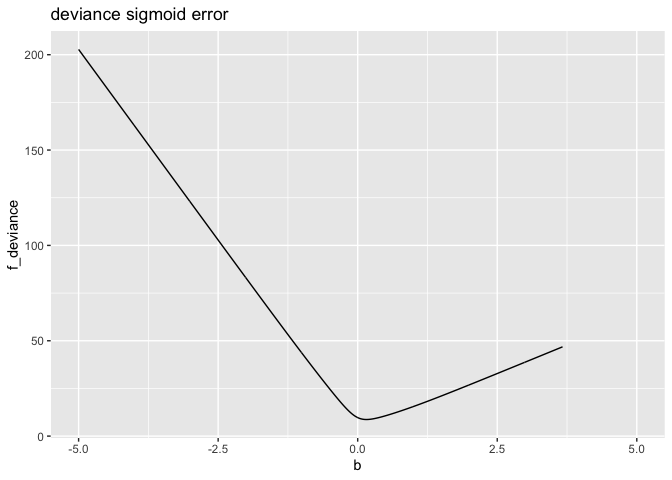
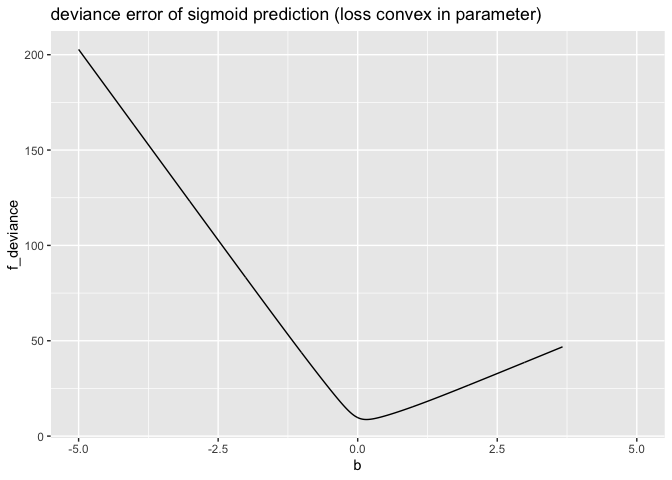
edit

Changed region(s): [[0.1875, 0.0, 0.8125, 0.0625]]

diff --git a/WhyNotSquareError/Square_Error_Example.md b/WhyNotSquareError/Square_Error_Example.md
@@ -1,5 +1,14 @@
 Square Error Example
 ================
+John Mount, Win-Vector LLC
+
+This is an example of the non-convex structure of the squared error of
+sigmoid predictions (that is loss with respect to model parameters). The
+non-convexity was discussed in [“Why not Square Error for
+Classification?”](https://github.com/WinVector/Examples/blob/main/WhyNotSquareError/why_deviance.ipynb)
+(that example is in `Python`, this one is in `R`), and this is an
+example where finding optimal parameter values could be made harder by
+the non-convexity.
 
 ``` r
 library(ggplot2)
@@ -10,28 +19,51 @@ sigmoid <- function(x) {
   1/(1 + exp(-x))
 }
 
-
-d <- data.frame(
-  x = c(-2, -2, -2, 0, 0, 10, 10),
-  y = c(1, 1, 1, 0, 1, 1, 1)
-)
-
-
+# square-loss, a good loss for general numeric regressions
+# not recommended for probability/classification problems
 f_sq <- function(b, d) {
   sum( (d$y - sigmoid(b * d$x))^2 )
 }
 
+# deviance loss. monotone-equivalent to cross entropy
+# good loss for probability/classification problems
 f_deviance <- function(b, d) {
   -2 * sum( d$y * log(sigmoid(b * d$x)) + 
             (1-d$y) * log(1 - sigmoid(b * d$x)) )
 }
 ```
 
+Set up some example data. `x` is the explanatory variable, `y` is the
+categorical (`0`/`1` in this case) dependent variable to be predicted.
+
 ``` r
-plt_frame = data.frame(
-  b = seq(-5, 5, by = 0.01)
+d <- data.frame(
+  x = c(-2, -2, -2, 0, 0, 10, 10),
+  y = c(1, 1, 1, 0, 1, 1, 1)
 )
 
+knitr::kable(d)
+```
+
+|   x | y |
+| --: | -: |
+| \-2 | 1 |
+| \-2 | 1 |
+| \-2 | 1 |
+|   0 | 0 |
+|   0 | 1 |
+|  10 | 1 |
+|  10 | 1 |
+
+Plot model loss as a function of the model parameter `b`. Typical a `b`
+with minimal loss on the training data is selected as a best model.
+
+``` r
+plt_frame = data.frame(
+  b = seq(-2, 2, by = 0.01)
+)
+
+# vapply is R's equivalent of Python's list comprehension
 plt_frame$f_sq <- vapply(
   plt_frame$b,
   function(b) { f_sq(b, d) },
@@ -45,20 +77,47 @@ plt_frame$f_deviance <- vapply(
 )
 ```
 
-``` r
-ggplot(data = plt_frame, aes(x = b, y = f_sq)) + 
-  geom_line() +
-  ggtitle("squared sigmoid error")
-```
-
-![](Square_Error_Example_files/figure-gfm/unnamed-chunk-4-1.png)<!-- -->
+Deviance error of the sigmoid prediction *is* convex. This tends to make
+optimization easier.
 
 ``` r
 ggplot(data = plt_frame, aes(x = b, y = f_deviance)) + 
   geom_line() +
-  ggtitle("deviance sigmoid error")
+  ggtitle("deviance error of sigmoid prediction (loss convex in parameter)")
 ```
 
-    ## Warning: Removed 133 row(s) containing missing values (geom_path).
+![](Square_Error_Example_files/figure-gfm/unnamed-chunk-5-1.png)<!-- -->
 
-![](Square_Error_Example_files/figure-gfm/unnamed-chunk-4-2.png)<!-- -->
+The deviance loss is the basis of logistic regression, and also monotone
+equivalent to cross-entropy. It can be thought of as the average number
+of bits of surprise or correction needed using the predicted
+probabilities to encode data with the actual `y`-outcome probabilities
+being the true distribution. At deviance zero there is no surprise, and
+at large deviance the predictions are not doing well.
+
+Squared error of the sigmoid prediction is *not* convex. In this case it
+means there are portions where the curve is above its linear
+interpolate, and even local minima that are not connected.
+
+``` r
+ggplot(data = plt_frame, aes(x = b, y = f_sq)) + 
+  geom_line() +
+  ggtitle("squared error of sigmoid prediction (loss not convex in parameter)")
+```
+
+![](Square_Error_Example_files/figure-gfm/unnamed-chunk-6-1.png)<!-- -->
+
+The non-convexity can make optimization more difficult in general. For
+example a gradient descent optimizer starting at `b = -1` may have
+difficulty making it to the optimal `b` much closer to `0`.
+
+Note: it appears a variant of the square error for probabilities is
+called the [Brier score](https://en.wikipedia.org/wiki/Brier_score) and
+used in some fields. Our opinion is the deviance and cross-entropy are
+in fact better losses, well taught (see [Cover/Thomas *Elements of
+Information
+Theory*](http://staff.ustc.edu.cn/~cgong821/Wiley.Interscience.Elements.of.Information.Theory.Jul.2006.eBook-DDU.pdf)),
+and should be preferred. Square error may be a “good enough” measure for
+some applications, but I doubt
+[cross-entropy](https://en.wikipedia.org/wiki/Cross_entropy) is worse
+for these applications.
